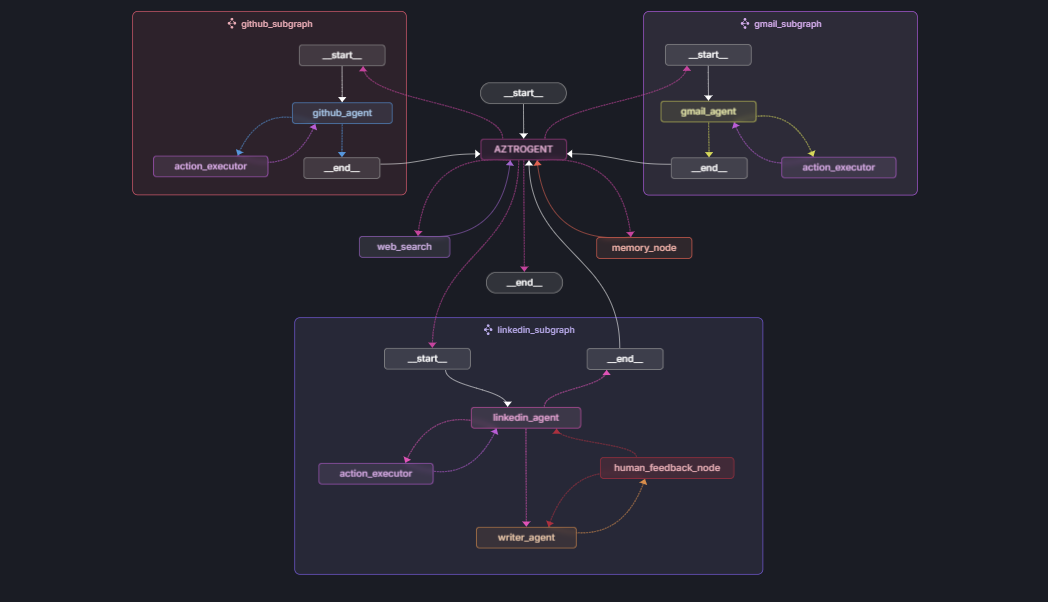
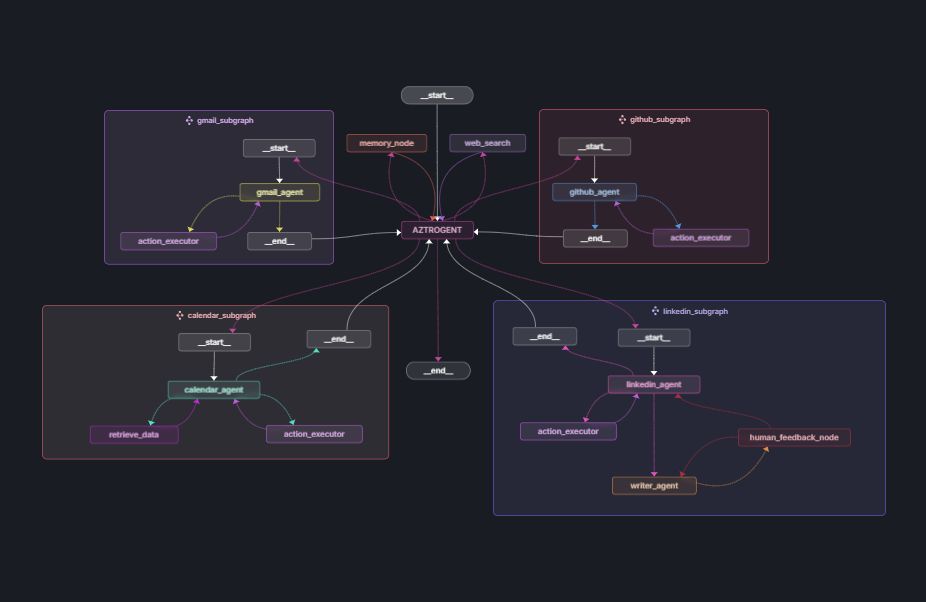
updated

diff --git a/src/calendar_agent/prompts.py b/src/calendar_agent/prompts.py
@@ -19,8 +19,8 @@ You can assist with the following tasks:
    - Quickly add events based on natural language descriptions.
 
 ### Execution Guidelines
-1. **Prioritize Clarity and Confirmation:** If the user's request is unclear or ambiguous, ask for clarification before proceeding.
-2. **Interpret Date/Time Context Accurately:** Correctly resolve relative terms like "today," "tomorrow," "next Monday," or "end of the month" based on the user's time zone.
+1. **Prioritize Clarity and Confirmation:** If the user's request is unclear or ambiguous, ask for clarification before proceeding.  Do Not ask the user for smaller details, use your mind.
+2. **Interpret Date/Time Context Accurately:** Correctly resolve relative terms like "today," "tomorrow," "next Monday," or "end of the month" based on the user's time zone. Ensure all tool interactions use the correct dates and times. For instance, 'next month' should be calculated relative to the current date, retrieving events for the entire following month.
 3. **Provide Comprehensive Event Details:** When retrieving events, include full details such as start time, end time, title, location, and description, if available.
 4. **Execute Tasks in Logical Order:** If a task requires both reading and writing operations, ensure you fetch necessary data before modifying the calendar.
 5. **Optimize User Interaction:** If a conflict is detected (e.g., scheduling an event over an existing commitment), notify the user and suggest alternative time slots.
@@ -31,6 +31,7 @@ If any function call/tool call fails, retry it 3 times. Make sure to handle tool
 ---
 **Important Details:**
 - {user_name}'s Email: {user_email}
+- Today's date/time (ISO Format): {today_datetime}
 - Timezone Offset (as a number): {timezone_offset}
 
 """

diff --git a/src/calendar_agent/nodes.py b/src/calendar_agent/nodes.py
@@ -1,8 +1,8 @@
 from typing import Literal
 from datetime import datetime
 
-from calendar_agent.prompts import EMAIL_AGENT_PROMPT
-from calendar_agent.state import GmailGraphState
+from calendar_agent.prompts import CALENDAR_AGENT_PROMPT
+from calendar_agent.state import GoogleCalendarGraphState
 from calendar_agent.models import gemini_model
 from calendar_agent.tools import calendar_read_tools, calendar_write_tools, write_tools_by_name
 from calendar_agent.configuration import Configuration
@@ -28,6 +28,7 @@ def calendar_agent(
                 content=CALENDAR_AGENT_PROMPT.format(
                     user_name=configuration.user_name,
                     user_email=configuration.user_email,
+                    today_datetime=datetime.now().isoformat(),
                     timezone_offset=configuration.timezone_offset,
                 )
             )

diff --git a/src/aztrogent_agent/configuration.py b/src/aztrogent_agent/configuration.py
@@ -23,7 +23,7 @@ class Configuration:
     )
 
     model: Annotated[str, {"__template_metadata__": {"kind": "llm"}}] = field(
-        default="google_genai/gemini-2.0",
+        default="google_genai/gemini-2.0-flash",
         metadata={
             "description": "The name of the language model to use for the agent's main interactions. "
             "Should be in the form: provider/model-name."
